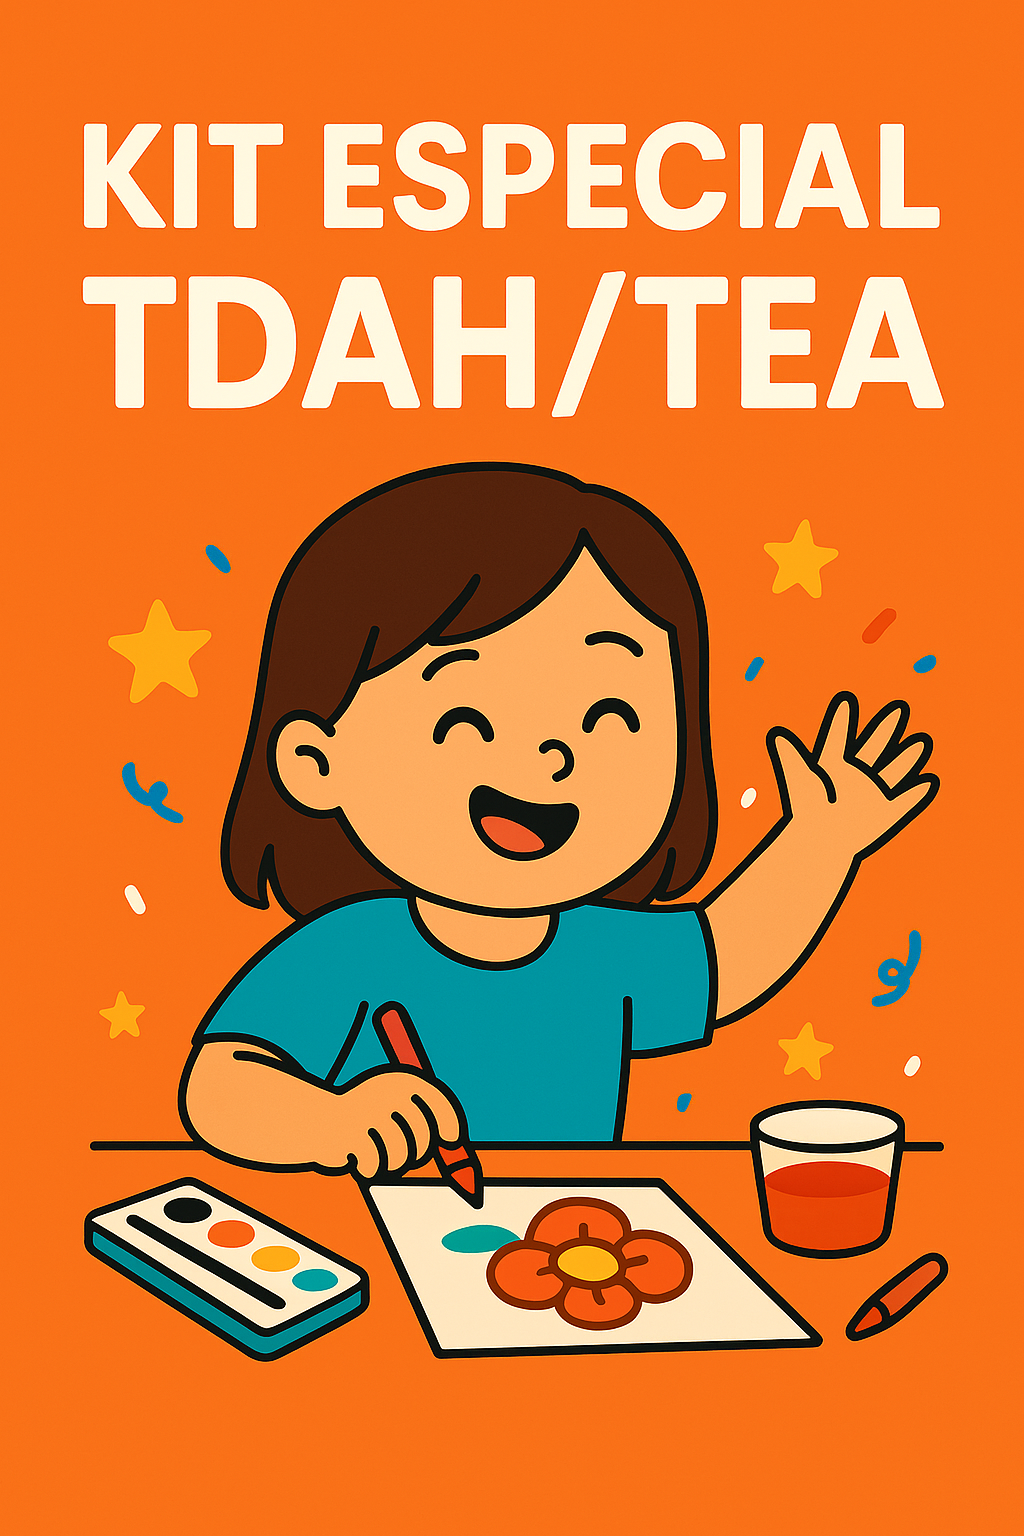
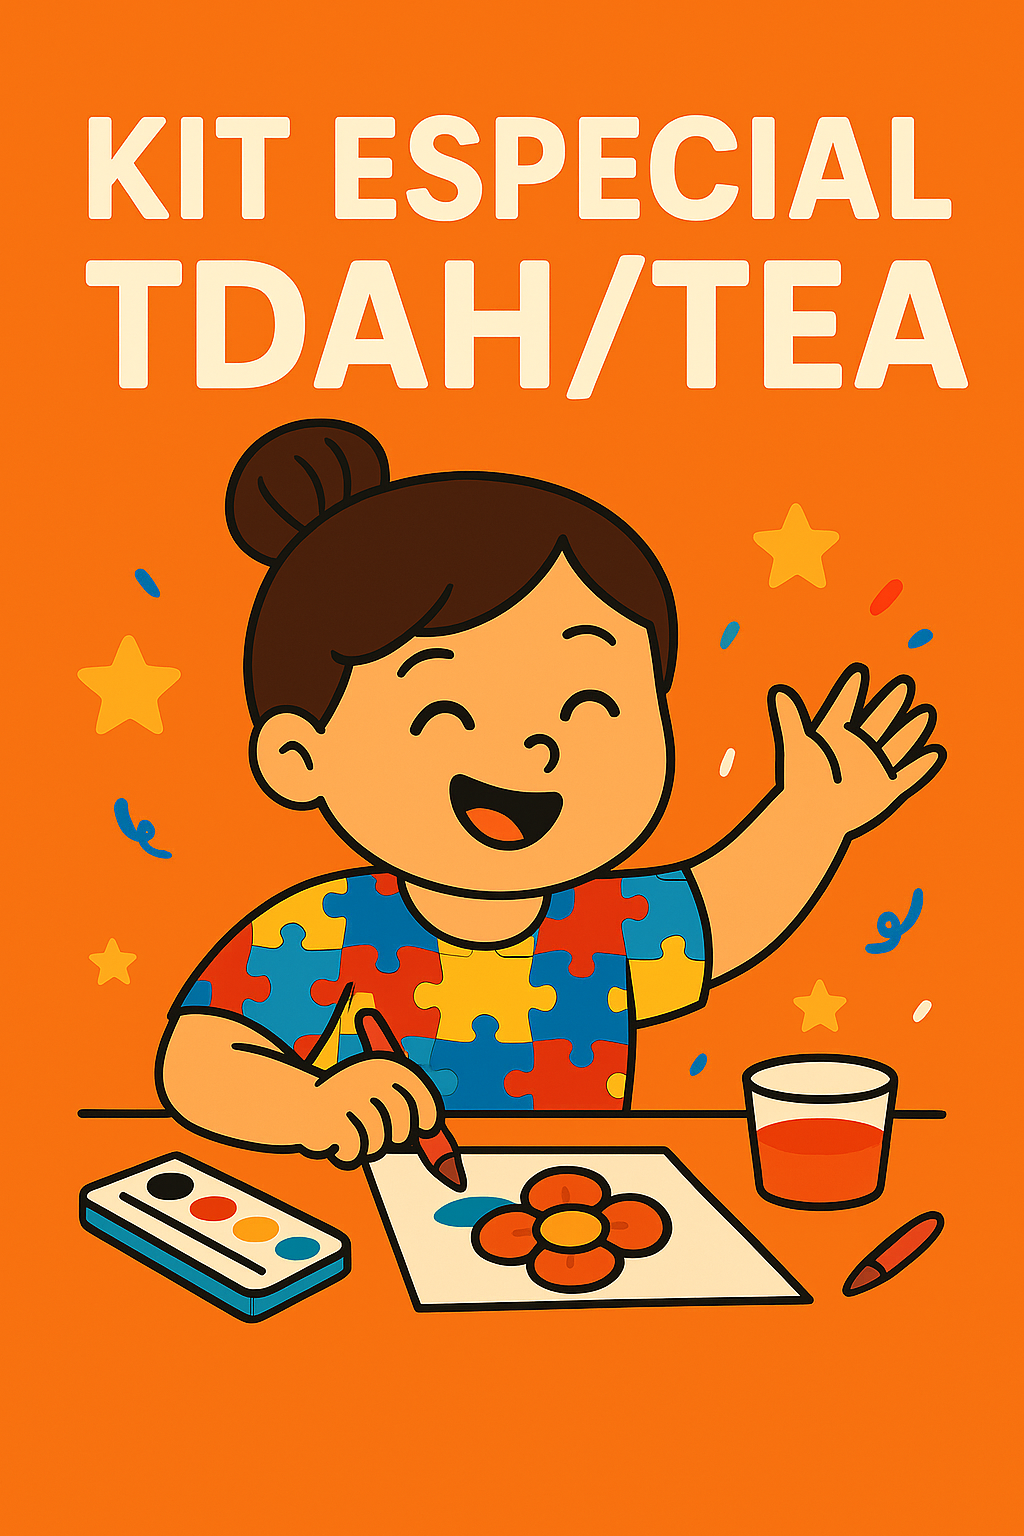
remova totalmente a capa do modulo 5

diff --git a/src/app/page.tsx b/src/app/page.tsx
@@ -29,8 +29,6 @@ const activities = [
   {
     id: "activity-5",
     title: "KIT TDAH/TEA",
-    imageUrl: "/images/capatea.png",
-    imageHint: "TDAH TEA",
   },
 ];
 
